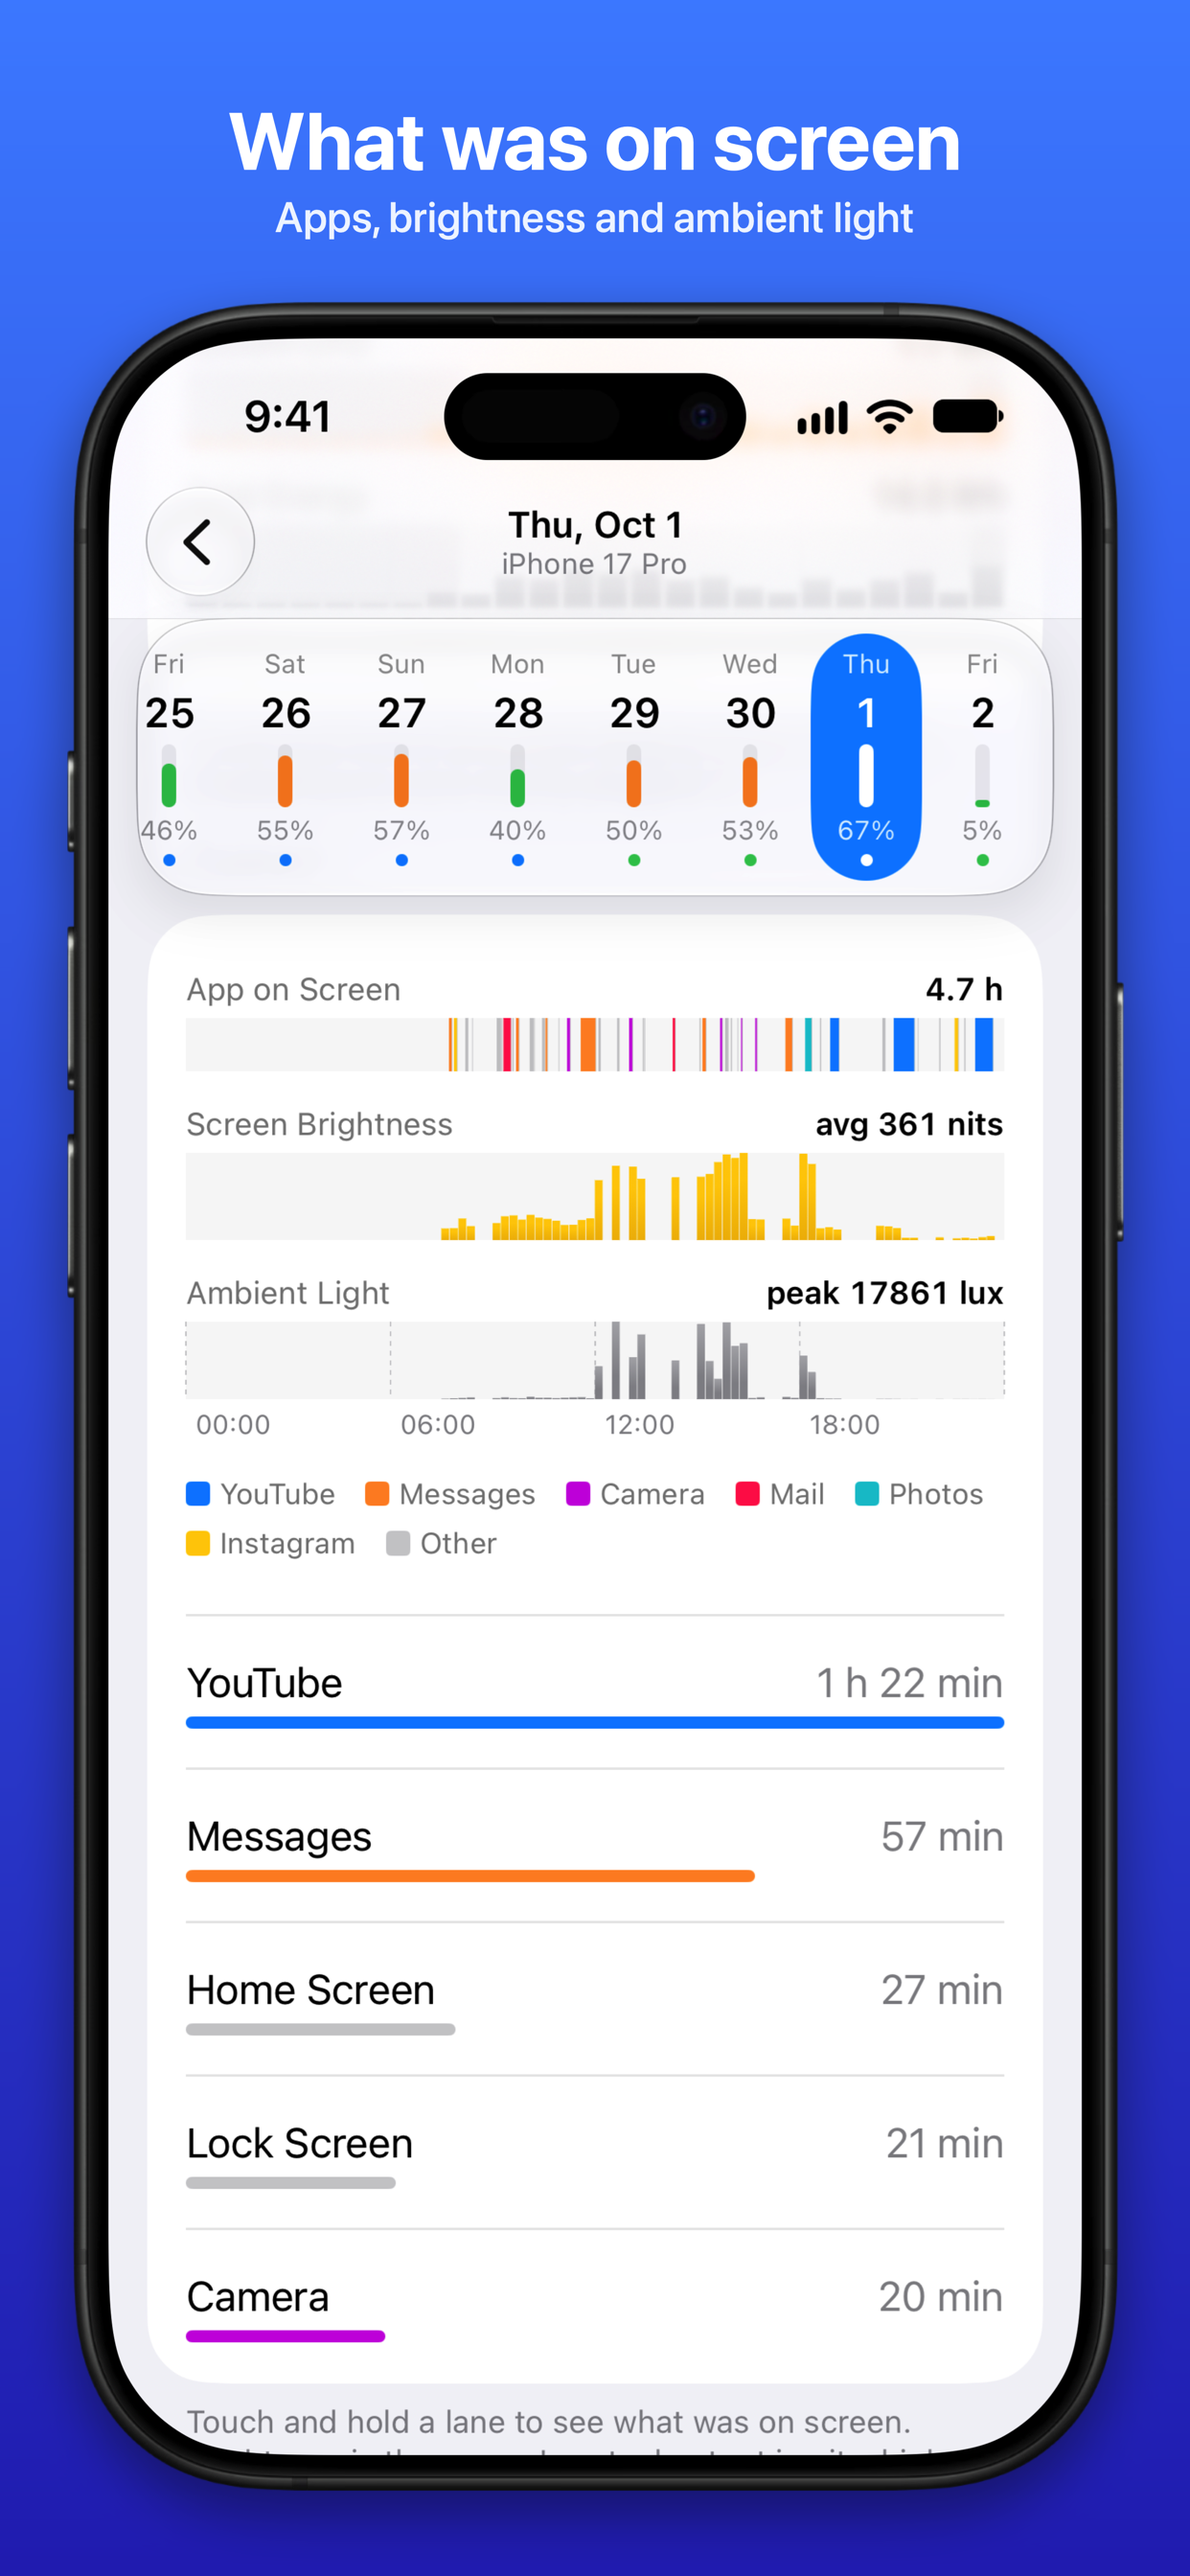
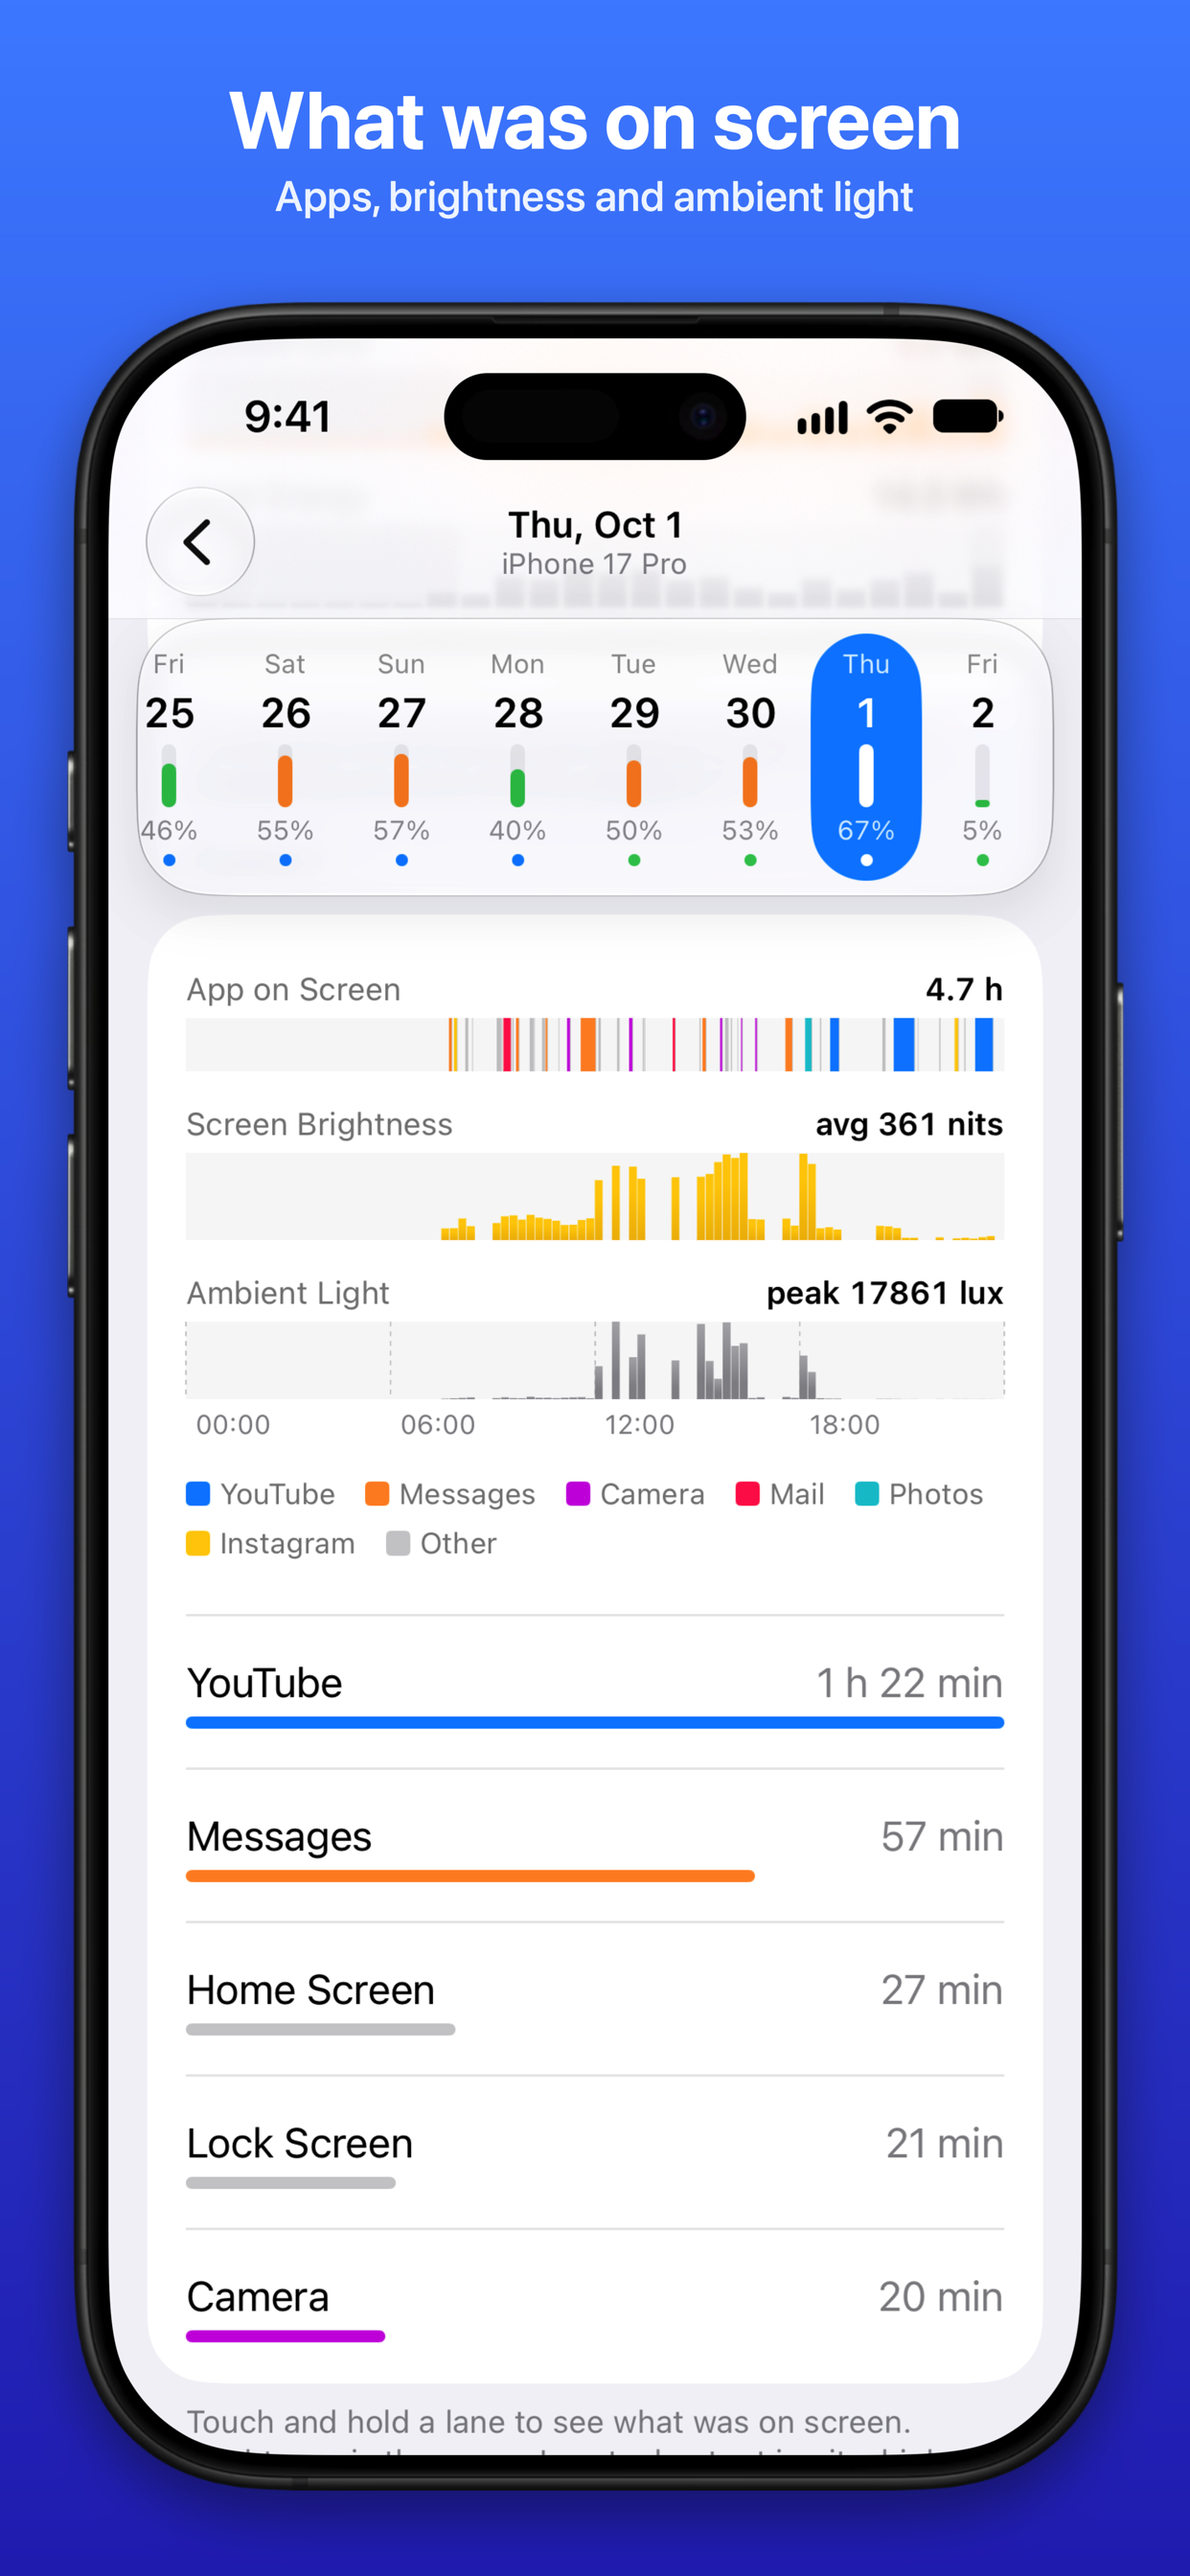
Center the iPhone screenshot labels above the device

Changed region(s): [[0.1836, 0.0312, 0.8261, 0.0938]]

diff --git a/Assets/App Store/compose.swift b/Assets/App Store/compose.swift
@@ -254,15 +254,13 @@ func compose(_ shot: Screenshot, language: String, device: Device) -> Bool {
         deviceSize.height = deviceSize.width / aspect
     }
 
-    // The iPad leaves more room above it, so its text is centered, by the header's cap height
-    // and the caption's baseline, between the top of the canvas and the top of the device.
-    if device == .iPad {
-        let deviceTop = deviceBottomMargin + deviceSize.height
-        let capInset = header.font.ascender - header.font.capHeight
-        let visualHeight = header.size.height + captionGap + caption.font.ascender - capInset
-        let visualTop = (canvasSize.height + deviceTop) / 2 + visualHeight / 2
-        headerTop = (visualTop + capInset).rounded()
-    }
+    // The text is centered, by the header's cap height and the caption's baseline,
+    // between the top of the canvas and the top of the device.
+    let deviceTop = deviceBottomMargin + deviceSize.height
+    let capInset = header.font.ascender - header.font.capHeight
+    let visualHeight = header.size.height + captionGap + caption.font.ascender - capInset
+    let visualTop = (canvasSize.height + deviceTop) / 2 + visualHeight / 2
+    headerTop = (visualTop + capInset).rounded()
     header.draw(top: headerTop, canvasWidth: canvasSize.width)
     caption.draw(top: headerTop - header.size.height - captionGap, canvasWidth: canvasSize.width)
 
